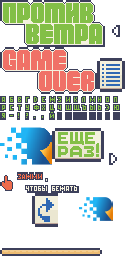
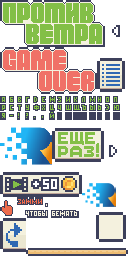
2104
2053

diff --git a/scripts/c3runtime.js b/scripts/c3runtime.js
@@ -3794,11 +3794,12 @@ const i=VALID_WAVES.indexOf(w);if(i===-1)throw new Error("invalid wave");map.get
 		C3.Plugins.Sprite.Acts.AddInstanceVar,
 		C3.Plugins.VKBridge.Cnds.AdsMobileSuccess,
 		C3.Plugins.VKBridge.Acts.ShowWall,
-		C3.Plugins.VKBridge.Acts.LeaderBoardVKUI,
+		C3.Plugins.VKBridge.Acts.LeaderBoard,
 		C3.Plugins.LocalStorage.Cnds.OnItemMissing,
 		C3.Plugins.LocalStorage.Cnds.OnItemExists,
 		C3.Plugins.LocalStorage.Acts.GetItem,
 		C3.Plugins.LocalStorage.Exps.ItemValue,
+		C3.Plugins.Sprite.Cnds.IsVisible,
 		C3.Plugins.VKBridge.Acts.BridgeConnect,
 		C3.Plugins.VKBridge.Cnds.BridgeConnectSuccess,
 		C3.Plugins.VKBridge.Acts.Authorization,
@@ -3880,6 +3881,9 @@ const i=VALID_WAVES.indexOf(w);if(i===-1)throw new Error("invalid wave");map.get
 		{levo: 0},
 		{leader: 0},
 		{podel: 0},
+		{Sprite3: 0},
+		{Sprite4: 0},
+		{Sprite5: 0},
 		{platforms: 0},
 		{buttons: 0},
 		{timer_reward: 0},
@@ -4156,6 +4160,7 @@ const i=VALID_WAVES.indexOf(w);if(i===-1)throw new Error("invalid wave");map.get
 			const v0 = p._GetNode(0).GetVar();
 			return () => (and("Я набрал ", v0.GetValue()) + ", в этой сложной игре!");
 		},
+		() => "https://vk.com/app7822462",
 		p => {
 			const f0 = p._GetNode(0).GetBoundMethod();
 			const f1 = p._GetNode(1).GetBoundMethod();
